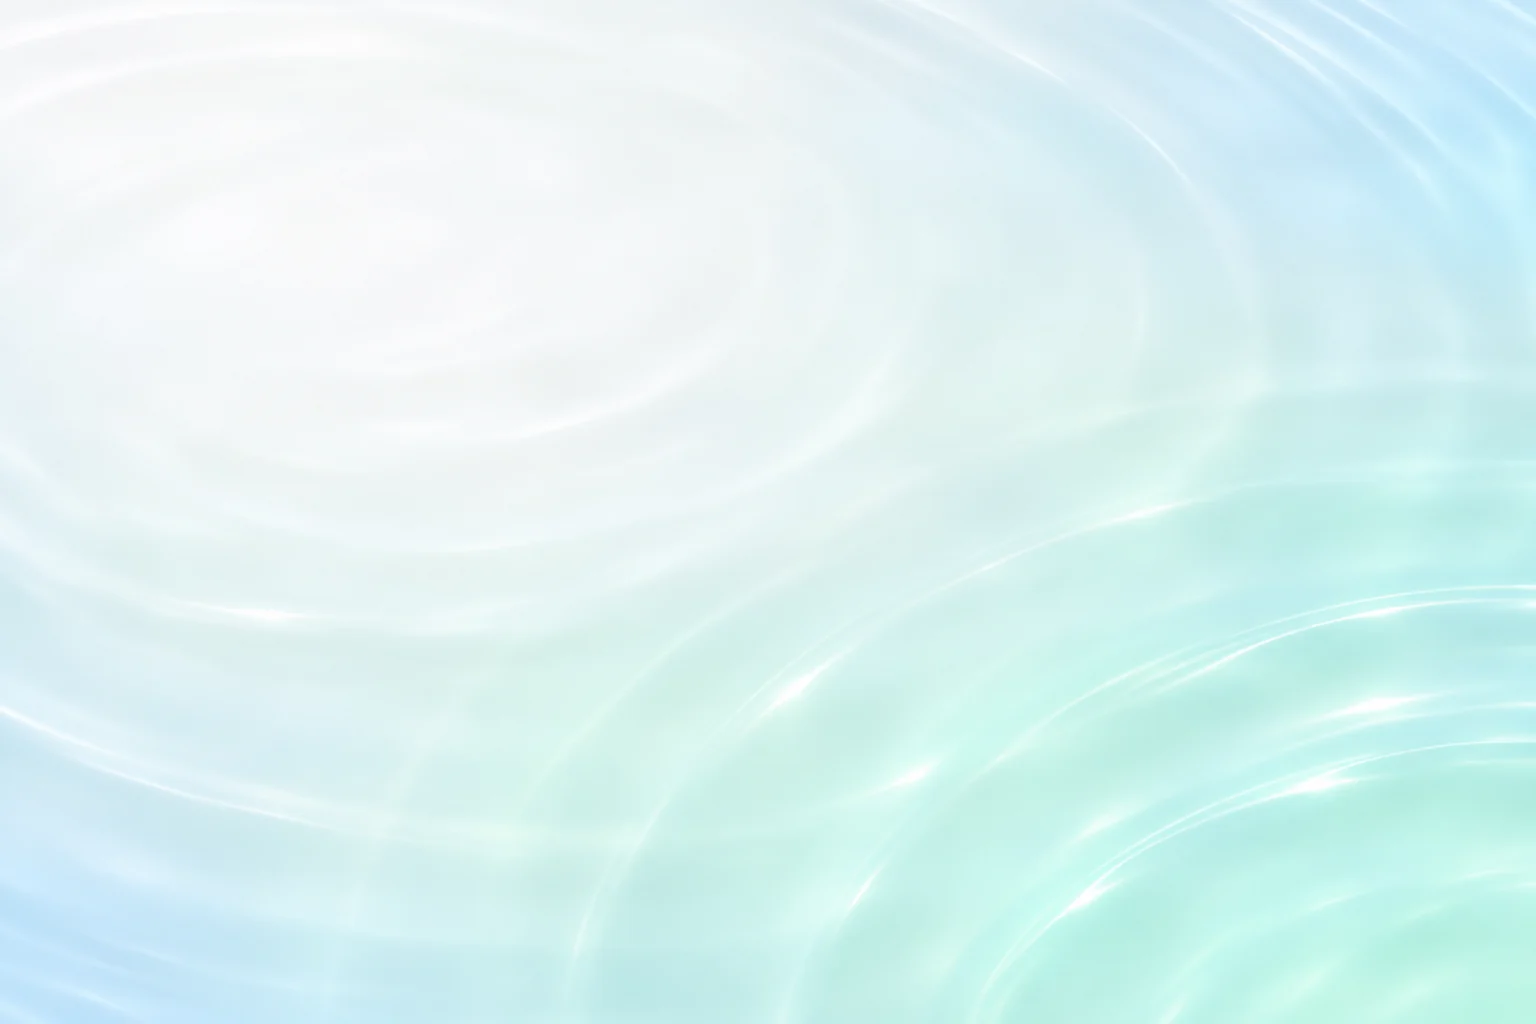
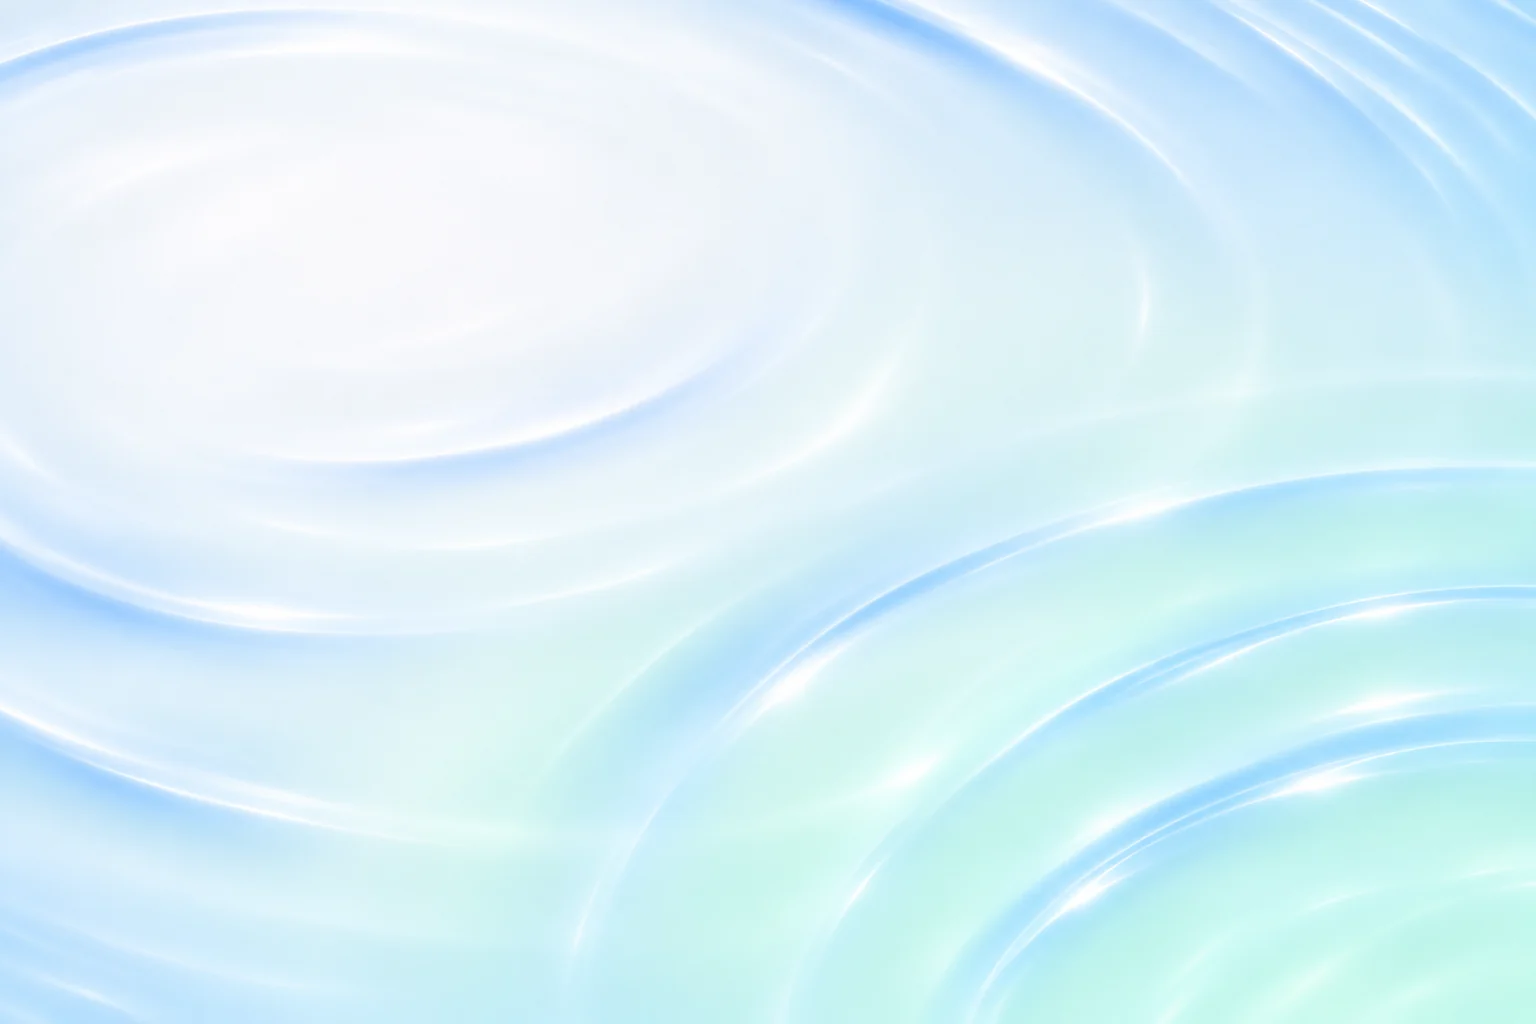
Dar más color al fondo de Liquid Glass Claro (#34)

diff --git a/src/styles/glass.css b/src/styles/glass.css
@@ -33,7 +33,7 @@ html[data-effects~='glass'] [data-slot='app-shell'] {
 
 html[data-effects~='glass']:not([data-glass-renderer='webgl']) [data-slot='app-shell'] {
   --glass-wallpaper: url('./assets/glass-wallpaper-light.webp');
-  --glass-wallpaper-wash: linear-gradient(140deg, rgb(247 252 252 / 0.32), rgb(241 249 252 / 0.18));
+  --glass-wallpaper-wash: linear-gradient(140deg, rgb(247 252 252 / 0.48), rgb(241 249 252 / 0.43));
   background: var(--glass-wallpaper-wash), var(--glass-wallpaper) center / cover no-repeat !important;
 }
 
